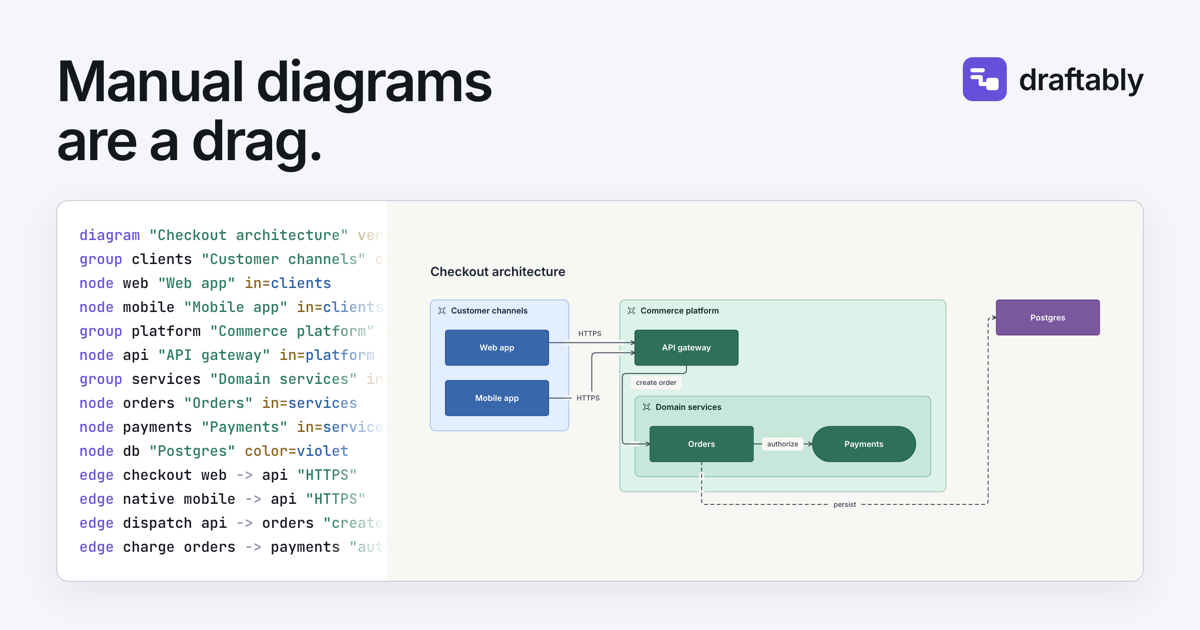
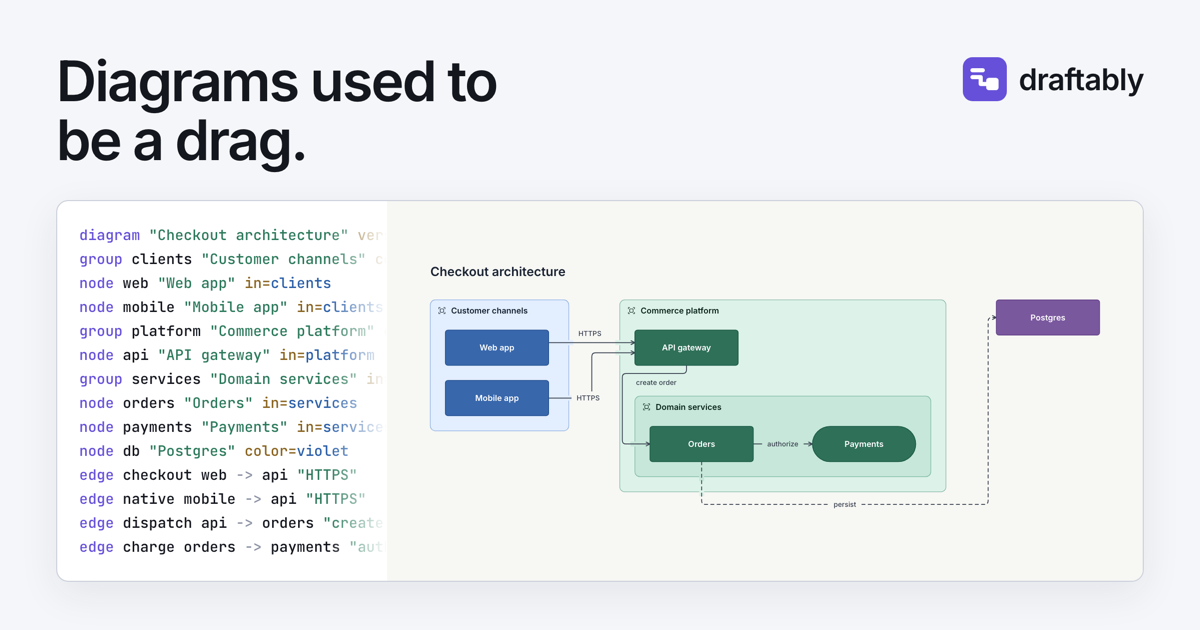
Polish the landing page and retitle the hero
"Diagrams used to be a drag." replaces the old headline, here and on the
social card. Stack the Mermaid routes so long commands fit, set the
source beside its drawing at mid widths, add Expand, and even out the
four-ways headings and command boxes.

Changed region(s): [[0.0308, 0.0905, 0.4317, 0.2714], [0.5242, 0.573, 0.5858, 0.6333], [0.6167, 0.6937, 0.6783, 0.7238]]

diff --git a/site/landing/Mermaid.tsx b/site/landing/Mermaid.tsx
@@ -1,6 +1,7 @@
 import { A } from '@solidjs/router';
-import { createSignal, For, onCleanup, onMount } from 'solid-js';
+import { createSignal, For, onCleanup, onMount, Show } from 'solid-js';
 import { paperOf } from '../draw';
+import { Expand } from '../live/Expand';
 import { CopyCommand } from './CopyCommand';
 import { drawSvg, enqueue, whenSeen } from './render';
 
@@ -40,7 +41,7 @@ const ROWS: [string, string, string][] = [
     'Start lines with +, - or ~',
   ],
   ['Focus on one path', 'Draw a second diagram', 'Add a state line'],
-  ['Edit', 'Text', 'Text or canvas, in one file'],
+  ['Edit by hand', 'In text', 'In text or on the canvas'],
   ['Diagram kinds', 'Many, including pie and Gantt', 'Flows, sequences, lanes, grids'],
 ];
 
@@ -74,8 +75,7 @@ export function Mermaid() {
             <div>
               <h3>Swap the package</h3>
               <p>
-                Your <code>import mermaid from 'mermaid'</code> code stays the same. A CDN page
-                changes one URL.
+                Your <code>import mermaid</code> now loads Draftably. A CDN page changes one URL.
               </p>
               <CopyCommand text="pnpm add mermaid@npm:@draftably/mermaid" />
             </div>
@@ -112,19 +112,25 @@ export function Mermaid() {
           </table>
         </div>
         <figure class="switch-figure">
-          <figcaption>Your Mermaid</figcaption>
-          <pre class="switch-source">{MERMAID}</pre>
-          <figcaption>Drawn by Draftably</figcaption>
-          <div
-            class="switch-drawing"
-            classList={{ 'is-drawn': !!svg() }}
-            style={{ background: paperOf(svg()) }}
-            role="img"
-            aria-label="The same flowchart drawn by Draftably: Web app calls the API in a Backend group, which calls Auth and a Cached? check that falls through to the Orders DB."
-            // The SVG comes from our own renderer, which escapes every label.
-            // eslint-disable-next-line solid/no-innerhtml
-            innerHTML={svg()}
-          />
+          <div class="switch-pane">
+            <p class="switch-caption">Your Mermaid</p>
+            <pre class="switch-source">{MERMAID}</pre>
+          </div>
+          <div class="switch-pane switch-pane-drawing" style={{ background: paperOf(svg()) }}>
+            <p class="switch-caption">Drawn by Draftably</p>
+            <Show when={svg()}>
+              <Expand svg={svg()} />
+            </Show>
+            <div
+              class="switch-drawing"
+              classList={{ 'is-drawn': !!svg() }}
+              role="img"
+              aria-label="The same flowchart drawn by Draftably: Web app calls the API in a Backend group, which calls Auth and a Cached? check that falls through to the Orders DB."
+              // The SVG comes from our own renderer, which escapes every label.
+              // eslint-disable-next-line solid/no-innerhtml
+              innerHTML={svg()}
+            />
+          </div>
         </figure>
       </div>
     </section>

diff --git a/site/site.css b/site/site.css
@@ -208,6 +208,7 @@ main {
   margin: 8px 0 0;
   color: var(--muted);
   font-size: 16px;
+  text-wrap: pretty;
 }
 
 .hero-sub code {
@@ -1165,10 +1166,9 @@ main {
 }
 
 /* One height for the row's commands, so their boxes line up whatever their length. */
-@media (min-width: 1101px) {
-  .install-cols .copy {
-    min-height: 80px;
-  }
+/* Room for two lines, so the row's command boxes match whether a command wraps or not. */
+.install-cols .copy {
+  min-height: 60px;
 }
 
 .install .commands {
@@ -1213,8 +1213,7 @@ main {
 
 .switch-routes {
   display: grid;
-  grid-template-columns: repeat(2, minmax(0, 1fr));
-  gap: 24px;
+  gap: 20px;
   margin-top: 20px;
 }
 
@@ -1270,10 +1269,8 @@ main {
 
 .switch-table thead th {
   color: var(--muted);
-  font-size: 12px;
+  font-size: 13px;
   font-weight: 600;
-  letter-spacing: 0.04em;
-  text-transform: uppercase;
 }
 
 .switch-table tbody th {
@@ -1296,18 +1293,26 @@ main {
   background: var(--bg);
 }
 
-.switch-figure figcaption {
-  padding: 8px 14px;
-  border-bottom: 1px solid var(--line);
+.switch-caption {
+  margin: 0;
+  padding: 10px 14px 0;
   color: var(--muted);
   font: 600 12px var(--font);
 }
 
+.switch-pane {
+  min-width: 0;
+}
+
+.switch-pane-drawing {
+  position: relative;
+  border-top: 1px solid var(--line);
+  background: var(--canvas);
+}
+
 .switch-source {
   margin: 0;
-  padding: 12px 14px;
-  border-bottom: 1px solid var(--line);
-  background: var(--canvas);
+  padding: 8px 14px 14px;
   font: 500 12.5px / 19px var(--mono);
   font-variant-ligatures: none;
   white-space: pre;
@@ -1389,6 +1394,17 @@ main {
   .switch-body {
     grid-template-columns: 1fr;
   }
+
+  /* With the full width, the source sits beside its drawing. */
+  .switch-figure {
+    display: grid;
+    grid-template-columns: auto minmax(0, 1fr);
+  }
+
+  .switch-pane-drawing {
+    border-top: 0;
+    border-left: 1px solid var(--line);
+  }
 }
 
 @media (max-width: 900px) {
@@ -1426,9 +1442,21 @@ main {
     gap: 2px;
   }
 
-  .switch-routes,
   .install-cols {
     grid-template-columns: 1fr;
+  }
+
+  .switch-figure {
+    display: block;
+  }
+
+  .switch-pane-drawing {
+    border-top: 1px solid var(--line);
+    border-left: 0;
+  }
+
+  .switch-table tbody th {
+    width: 32%;
   }
 
   .commands dd {

diff --git a/site/landing/Landing.tsx b/site/landing/Landing.tsx
@@ -80,13 +80,13 @@ export function Landing() {
       <Nav />
       <main id="main" tabIndex={-1} style={{ outline: 'none' }}>
         <section class="hero">
-          <h1>Manual diagrams are a drag.</h1>
+          <h1>Diagrams used to be a drag.</h1>
           <div class="hero-head">
             <div>
-              <p class="hero-kicker">Write yours. Drag only if you want to.</p>
+              <p class="hero-kicker">Now you write them. Drag only if you want to.</p>
               <p class="hero-sub">
-                Architecture, flows, sequences, state machines and schemas, laid out from plain
-                text. Move a box and the file gets plain, readable lines. Use it in the browser, the
+                Architecture, flows, sequences, state machines and schemas, laid out from text. A
+                box you move becomes a readable line in the file. Use it in the browser, the
                 terminal, your app or your coding agent.
               </p>
             </div>
@@ -252,7 +252,7 @@ function Install() {
           <CopyCommand text="npx draftably open plan.draft" />
         </div>
         <div>
-          <h3>Teach your coding agent</h3>
+          <h3>Agent: let it draw for you</h3>
           <p>
             A bundled skill teaches an agent the language, so it writes, checks and renders{' '}
             <code>.draft</code> files on its own. Add <code>--global</code> for every project.{' '}

diff --git a/scripts/og-image.ts b/scripts/og-image.ts
@@ -51,7 +51,7 @@ const html = `<!doctype html>
 </style>
 <div class="card">
   <div class="head">
-    <h1>Manual diagrams<br />are a drag.</h1>
+    <h1>Diagrams used to<br />be a drag.</h1>
     <span class="mark">${fs.readFileSync(path.join(root, 'src/assets/logo.svg'), 'utf8')}draftably</span>
   </div>
   <div class="frame">
